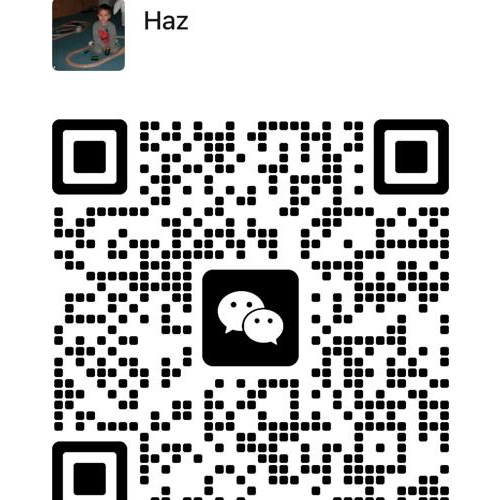
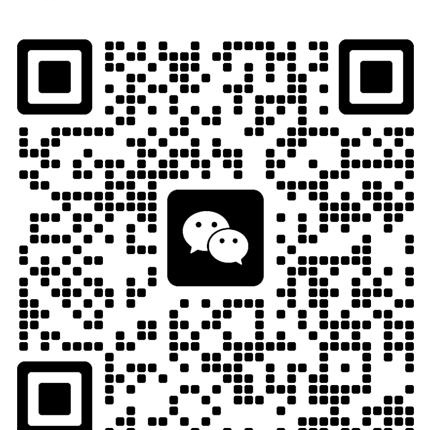
Fix China Desk: properly cropped QR, centered photos
- QR: Cropped with PIL to just the QR code (430x430), removed all
  iPhone UI. Now displays at 240px max-width, fully scannable.
- Haziel: object-position center 25%, 110px circle
- Kai: object-position center 15%, 110px circle
- Removed old/unused image files

diff --git a/index.html b/index.html
@@ -815,7 +815,7 @@
         <div class="china-team-grid" style="display:grid;grid-template-columns:1fr 1fr 1fr;gap:24px">
           <!-- Haz Card -->
           <div style="background:#fff;border:1px solid #e8e8e8;border-radius:20px;padding:32px 24px;text-align:center;transition:all .2s ease">
-            <img src="images/haziel-photo.png" alt="Haziel" style="width:100px;height:100px;border-radius:50%;object-fit:cover;object-position:center 15%;border:3px solid var(--china-accent);margin:0 auto 16px;display:block" loading="lazy">
+            <img src="images/haziel-photo.png" alt="Haziel" style="width:110px;height:110px;border-radius:50%;object-fit:cover;object-position:center 25%;border:3px solid var(--china-accent);margin:0 auto 16px;display:block" loading="lazy">
             <h4 style="font-size:1.1rem;font-weight:700;margin-bottom:4px">Haz</h4>
             <p style="font-size:0.85rem;color:var(--china-accent);font-weight:600;margin-bottom:12px">China Desk Lead</p>
             <p style="font-size:0.85rem;color:var(--text-secondary);line-height:1.5;margin-bottom:16px">Mandarin-speaking. Bridges Chinese brands into the Mexican market.</p>
@@ -823,7 +823,7 @@
           </div>
           <!-- Kai Card -->
           <div style="background:#fff;border:1px solid #e8e8e8;border-radius:20px;padding:32px 24px;text-align:center;transition:all .2s ease">
-            <img src="images/kai-photo.png" alt="Kai" style="width:100px;height:100px;border-radius:50%;object-fit:cover;object-position:center 20%;border:3px solid var(--china-accent);margin:0 auto 16px;display:block" loading="lazy">
+            <img src="images/kai-photo.png" alt="Kai" style="width:110px;height:110px;border-radius:50%;object-fit:cover;object-position:center 15%;border:3px solid var(--china-accent);margin:0 auto 16px;display:block" loading="lazy">
             <h4 style="font-size:1.1rem;font-weight:700;margin-bottom:4px">Kai</h4>
             <p style="font-size:0.85rem;color:var(--china-accent);font-weight:600;margin-bottom:12px">Customer Success</p>
             <p style="font-size:0.85rem;color:var(--text-secondary);line-height:1.5;margin-bottom:16px">Ensures smooth onboarding and ongoing support for Chinese clients.</p>
@@ -831,7 +831,7 @@
           </div>
           <!-- WeChat QR Card -->
           <div style="background:#fff;border:1px solid #e8e8e8;border-radius:20px;padding:32px 24px;text-align:center;transition:all .2s ease">
-            <img src="images/wechat-qr.jpg" alt="WeChat QR Code — Scan to connect" style="width:200px;height:200px;object-fit:contain;border-radius:8px;margin:0 auto 16px;display:block" loading="lazy">
+            <img src="images/wechat-qr.jpg" alt="WeChat QR Code — Scan to connect" style="width:100%;max-width:240px;height:auto;border-radius:8px;margin:0 auto 16px;display:block;border:1px solid #e8e8e8" loading="lazy">
             <h4 style="font-size:1.1rem;font-weight:700;margin-bottom:4px">WeChat</h4>
             <p style="font-size:0.85rem;color:var(--text-secondary);line-height:1.5">Scan to connect directly with our China Desk team.</p>
           </div>
